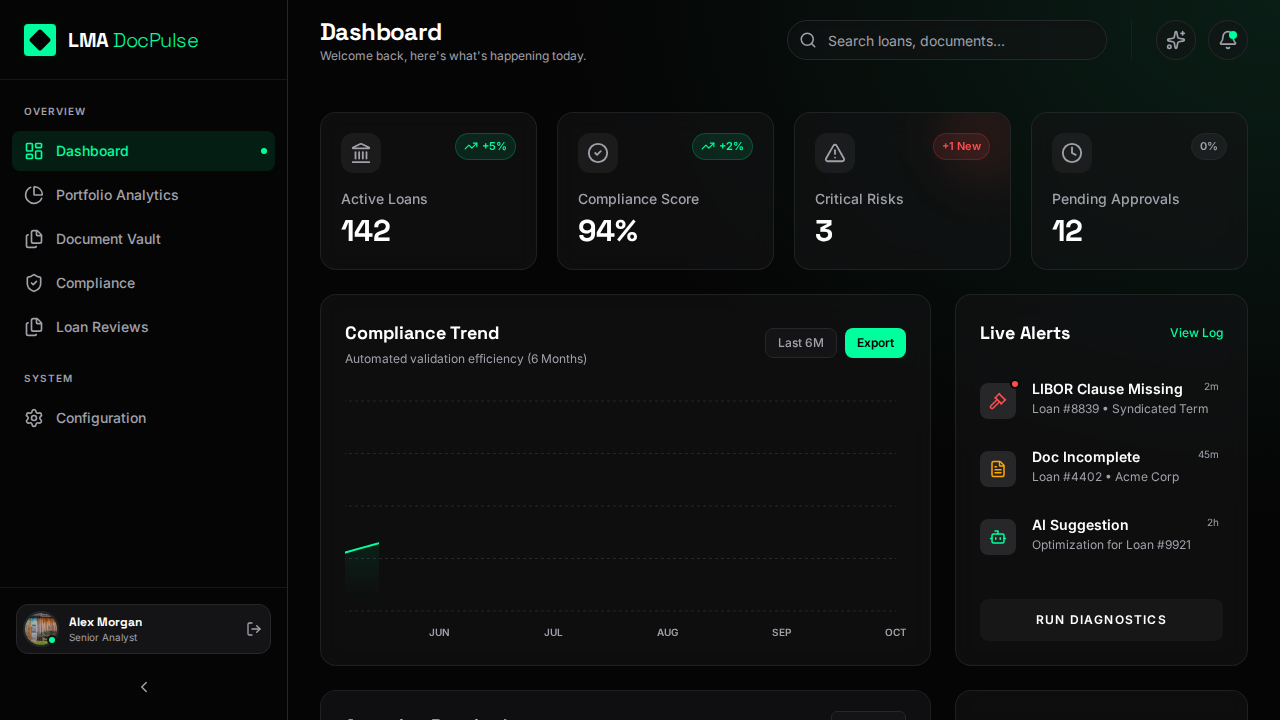
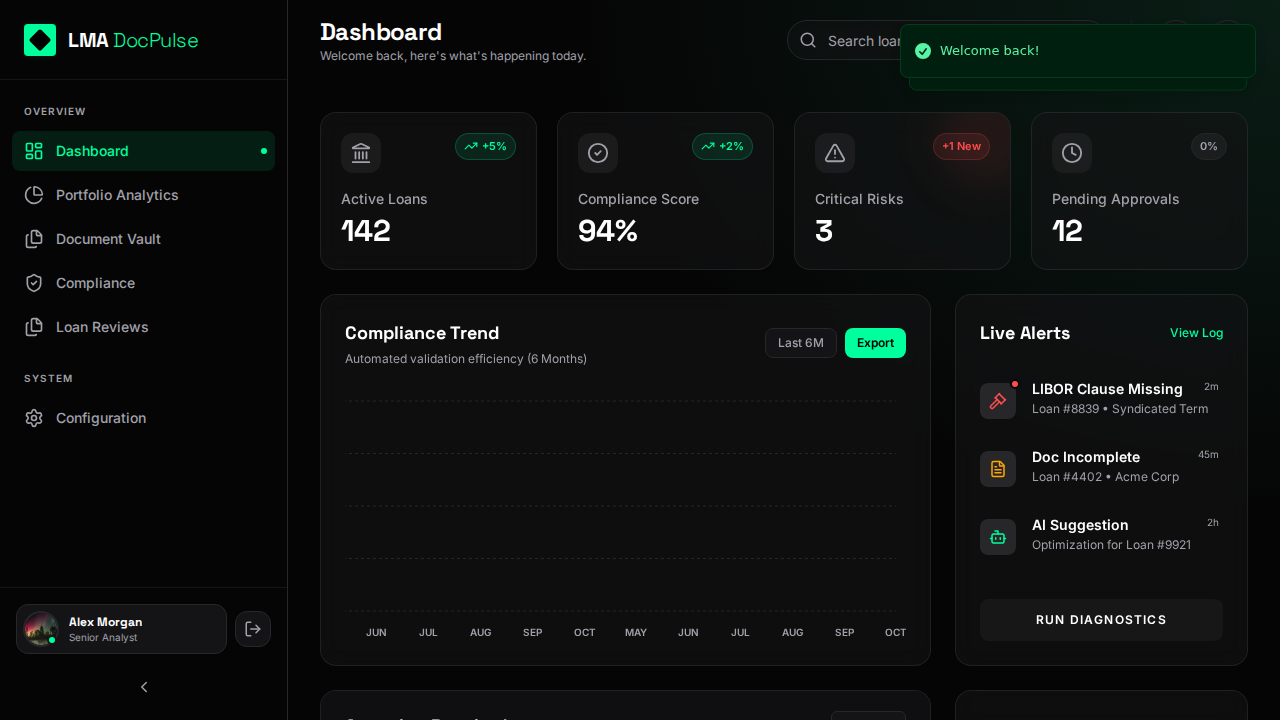
Implement Dexie.js for auth and data persistence
- Installed dexie and dexie-react-hooks
- Created src/db.ts for database schema and initialization
- Replaced mock data usage with Dexie database in App.tsx and DashboardView.tsx
- Implemented basic authentication (signup/login) in AuthView.tsx using Dexie
- Updated Doc type to include optional id
- Initialized database with mock data on first run
- Fixed type error in ActionFeedback.tsx

diff --git a/src/views/AuthView.tsx b/src/views/AuthView.tsx
@@ -14,6 +14,7 @@ import {
 } from 'lucide-react';
 import { ViewState } from '../types';
 import { toast } from 'sonner';
+import { db } from '../db';
 
 interface AuthViewProps {
     setView: (view: ViewState) => void;
@@ -29,6 +30,7 @@ export const AuthView = ({ setView }: AuthViewProps) => {
     // Form states
     const [email, setEmail] = useState('');
     const [password, setPassword] = useState('');
+    const [name, setName] = useState(''); // Added name state for signup
 
     // Animation refs
     const leftPanelRef = useRef(null);
@@ -59,19 +61,46 @@ export const AuthView = ({ setView }: AuthViewProps) => {
         e.preventDefault();
         setIsLoading(true);
 
-        // Simulate API call
-        setTimeout(() => {
-            setIsLoading(false);
-            toast.success(mode === 'login' ? "Welcome back!" : "Account created successfully!");
+        try {
+            if (mode === 'signup') {
+                const existingUser = await db.users.where('email').equals(email).first();
+                if (existingUser) {
+                    toast.error("User with this email already exists.");
+                    setIsLoading(false);
+                    return;
+                }
+                await db.users.add({
+                    email,
+                    password,
+                    name: name || email.split('@')[0]
+                });
+                toast.success("Account created successfully! Please log in.");
+                setMode('login'); // Switch to login after signup
+                setIsLoading(false);
+            } else {
+                const user = await db.users.where('email').equals(email).first();
+                if (user && user.password === password) {
+                    toast.success("Welcome back!");
+                    // Store user session (simple version)
+                    localStorage.setItem('currentUser', JSON.stringify(user));
 
-            // Exit animation
-            gsap.to(containerRef.current, {
-                opacity: 0,
-                y: -20,
-                duration: 0.5,
-                onComplete: () => setView('dashboard')
-            });
-        }, 1500);
+                    // Exit animation
+                    gsap.to(containerRef.current, {
+                        opacity: 0,
+                        y: -20,
+                        duration: 0.5,
+                        onComplete: () => setView('dashboard')
+                    });
+                } else {
+                    toast.error("Invalid email or password.");
+                    setIsLoading(false);
+                }
+            }
+        } catch (error) {
+            console.error("Auth error:", error);
+            toast.error("An error occurred during authentication.");
+            setIsLoading(false);
+        }
     };
 
     const toggleMode = () => {
@@ -180,6 +209,26 @@ export const AuthView = ({ setView }: AuthViewProps) => {
 
                     <form ref={formRef} onSubmit={handleSubmit} className="space-y-4">
                         <div className="space-y-4">
+                            {mode === 'signup' && (
+                                <div className="form-element space-y-1.5">
+                                    <label className="text-xs font-bold uppercase tracking-wider text-text-muted">Full Name</label>
+                                    <div className="relative group">
+                                        <div className="absolute inset-y-0 left-0 pl-3 flex items-center pointer-events-none">
+                                            <div className="w-[18px] flex justify-center">
+                                                 <span className="text-slate-500 group-focus-within:text-primary transition-colors font-bold">Aa</span>
+                                            </div>
+                                        </div>
+                                        <input
+                                            type="text"
+                                            value={name}
+                                            onChange={(e) => setName(e.target.value)}
+                                            className="w-full bg-surface border border-border rounded-lg pl-10 pr-4 py-3 text-white placeholder-slate-600 focus:outline-none focus:ring-1 focus:ring-primary focus:border-primary transition-all text-sm"
+                                            placeholder="John Doe"
+                                        />
+                                    </div>
+                                </div>
+                            )}
+
                             <div className="form-element space-y-1.5">
                                 <label className="text-xs font-bold uppercase tracking-wider text-text-muted">Email</label>
                                 <div className="relative group">

diff --git a/src/views/DashboardView.tsx b/src/views/DashboardView.tsx
@@ -23,7 +23,8 @@ import { StatCard } from '../components/StatCard';
 import { AlertItem } from '../components/AlertItem';
 import { RiskHeatmap } from '../components/RiskHeatmap';
 import { useActionFeedback } from '../components/ActionFeedback';
-import { CHART_DATA, LOANS_DATA } from '../data/mockData';
+import { db } from '../db';
+import { useLiveQuery } from 'dexie-react-hooks';
 
 import { ViewState } from '../types';
 
@@ -34,6 +35,9 @@ interface DashboardViewProps {
 export const DashboardView = ({ setView }: DashboardViewProps) => {
     const { trigger: triggerExport } = useActionFeedback('Export Data');
     const { trigger: triggerDiagnostics } = useActionFeedback('System Diagnostics');
+
+    const chartData = useLiveQuery(() => db.chartData.toArray()) || [];
+    const loansData = useLiveQuery(() => db.loans.toArray()) || [];
 
     return (
     <div className="flex-1 overflow-y-auto p-4 lg:p-8 pt-2 custom-scrollbar">
@@ -100,7 +104,7 @@ export const DashboardView = ({ setView }: DashboardViewProps) => {
 
                     <div className="flex-1 min-h-[250px] w-full mt-4">
                         <ResponsiveContainer width="100%" height="100%">
-                            <AreaChart data={CHART_DATA} margin={{ top: 10, right: 10, left: -20, bottom: 0 }}>
+                            <AreaChart data={chartData} margin={{ top: 10, right: 10, left: -20, bottom: 0 }}>
                                 <defs>
                                     <linearGradient id="colorScore" x1="0" y1="0" x2="0" y2="1">
                                         <stop offset="5%" stopColor="#00ff9d" stopOpacity={0.2} />
@@ -213,7 +217,7 @@ export const DashboardView = ({ setView }: DashboardViewProps) => {
                                 </tr>
                             </thead>
                             <tbody className="divide-y divide-border text-white">
-                                {LOANS_DATA.map((loan) => (
+                                {loansData.map((loan) => (
                                     <tr
                                         key={loan.id}
                                         className="hover:bg-surface-highlight/40 transition-colors group cursor-pointer"

diff --git a/App.tsx b/App.tsx
@@ -28,10 +28,16 @@ import { AuthView } from './src/views/AuthView';
 
 
 import { ViewState, Doc } from './src/types';
-import { INITIAL_VAULT_DOCS } from './src/data/mockData';
+import { initDB, db } from './src/db';
+import { useLiveQuery } from 'dexie-react-hooks';
 
 export default function App() {
   const [sidebarOpen, setSidebarOpen] = useState(false);
+
+  // Initialize DB
+  useEffect(() => {
+    initDB();
+  }, []);
 
   // Initial state check from hash, default to dashboard
   const getInitialView = (): ViewState => {
@@ -52,7 +58,12 @@ export default function App() {
   };
 
   const [currentView, setCurrentView] = useState<ViewState>(getInitialView);
-  const [vaultDocs, setVaultDocs] = useState<Doc[]>(INITIAL_VAULT_DOCS);
+
+  // Replace useState with useLiveQuery for vaultDocs
+  const vaultDocs = useLiveQuery(
+    () => db.docs.toArray(),
+    []
+  );
 
   // Sync state to hash
   useEffect(() => {
@@ -82,8 +93,9 @@ export default function App() {
   }, [currentView]);
 
 
-  const handleUploadComplete = (newDocs: Doc[]) => {
-    setVaultDocs(prev => [...newDocs, ...prev]);
+  const handleUploadComplete = async (newDocs: Doc[]) => {
+    // Add new docs to Dexie instead of state
+    await db.docs.bulkAdd(newDocs);
     setCurrentView('vault');
   };
 
@@ -127,7 +139,7 @@ export default function App() {
         />
 
         {currentView === 'dashboard' && <DashboardView setView={setCurrentView} />}
-        {currentView === 'vault' && <DocumentVaultView setView={setCurrentView} docs={vaultDocs} />}
+        {currentView === 'vault' && <DocumentVaultView setView={setCurrentView} docs={vaultDocs || []} />}
         {currentView === 'upload' && <UploadView setView={setCurrentView} onUploadComplete={handleUploadComplete} />}
         {currentView === 'smart_query' && <SmartQueryView setView={setCurrentView} />}
         {currentView === 'analytics' && <PortfolioAnalyticsView />}

diff --git a/src/db.ts b/src/db.ts
@@ -1,0 +1,67 @@
+import Dexie, { Table } from 'dexie';
+import { Doc } from './types';
+import { INITIAL_VAULT_DOCS } from './data/mockData';
+
+export interface User {
+  id?: number;
+  email: string;
+  password: string; // Storing plain text password for now as per simple auth requirement, ideally should be hashed
+  name: string;
+}
+
+export interface ChartData {
+    id?: number;
+    month: string;
+    score: number;
+}
+
+export interface Loan {
+    id: string;
+    counterparty: string;
+    initial: string;
+    initialColor: string;
+    risk: string;
+    riskColor: string;
+    deadline: string;
+}
+
+export class AppDatabase extends Dexie {
+  users!: Table<User>;
+  docs!: Table<Doc, number>; // Primary key is number (auto-incremented) but we'll see if Doc has an ID
+  chartData!: Table<ChartData, number>;
+  loans!: Table<Loan, string>; // Primary key is ID string
+
+  constructor() {
+    super('LMA_DocPulse_DB');
+    this.version(1).stores({
+      users: '++id, email',
+      docs: '++id, name, type, status, date',
+      chartData: '++id, month',
+      loans: 'id, counterparty, risk'
+    });
+  }
+}
+
+export const db = new AppDatabase();
+
+// Initialize DB with mock data if empty
+export const initDB = async () => {
+    const docsCount = await db.docs.count();
+    if (docsCount === 0) {
+        await db.docs.bulkAdd(INITIAL_VAULT_DOCS);
+    }
+
+    // We can also initialize other data if needed, but the prompt mainly focused on mockData replacement.
+    // Let's bring in CHART_DATA and LOANS_DATA too
+    const { CHART_DATA, LOANS_DATA } = await import('./data/mockData');
+
+    const chartCount = await db.chartData.count();
+    if (chartCount === 0) {
+        await db.chartData.bulkAdd(CHART_DATA);
+    }
+
+    const loansCount = await db.loans.count();
+    if (loansCount === 0) {
+        await db.loans.bulkAdd(LOANS_DATA);
+    }
+};

diff --git a/src/components/ActionFeedback.tsx b/src/components/ActionFeedback.tsx
@@ -20,7 +20,7 @@ interface ActionFeedbackProps {
 export const useActionFeedback = (actionName: string, options?: { successMessage?: string, errorMessage?: string, duration?: number }) => {
     const [state, setState] = useState<ActionState>('idle');
 
-    const trigger = async (promiseOrFn: () => Promise<void> | void) => {
+    const trigger = async (promiseOrFn?: () => Promise<void> | void) => {
         setState('processing');
         const toastId = toast.loading(`${actionName}...`, {
              description: 'Please wait while we process your request.',

diff --git a/src/types/index.ts b/src/types/index.ts
@@ -2,6 +2,7 @@ import React from 'react';
 export type ViewState = 'landing' | 'auth' | 'dashboard' | 'vault' | 'upload' | 'smart_query' | 'analytics' | 'compliance' | 'notifications' | 'settings' | 'loan_review' | 'profile' | 'loan_reviews' | 'filter' | 'document_detail' | 'edit_profile' | 'alerts_log' | 'activity_log' | 'violations_log' | 'public_profile' | 'analytics_result';
 
 export interface Doc {
+    id?: number;
     name: string;
     type: 'PDF' | 'DOCX' | 'XLSX' | 'File';
     size: string;

diff --git a/verification/verify_auth_dexie.py b/verification/verify_auth_dexie.py
@@ -1,0 +1,87 @@
+import time
+from playwright.sync_api import sync_playwright
+
+def test_auth_and_dashboard():
+    with sync_playwright() as p:
+        browser = p.chromium.launch(headless=True)
+        context = browser.new_context()
+        page = context.new_page()
+
+        # Wait for the server to be ready
+        print("Waiting for server to be ready...")
+        time.sleep(2)
+
+        try:
+            # 1. Navigate to the app (defaults to landing page)
+            print("Navigating to app...")
+            page.goto("http://localhost:3000")
+            page.wait_for_load_state("networkidle")
+
+            # Take screenshot of Landing page
+            page.screenshot(path="verification/landing_page.png")
+            print("Landing page screenshot taken.")
+
+            # Click "Sign In" to go to Auth view
+            print("Clicking Sign In...")
+            page.get_by_text("Sign In", exact=True).click()
+            time.sleep(1)
+
+            # Take screenshot of Auth page
+            page.screenshot(path="verification/auth_page.png")
+            print("Auth page screenshot taken.")
+
+            # 2. Signup
+            print("Switching to signup...")
+            # Click "Sign up" button.
+            page.get_by_text("Sign up", exact=True).click()
+            time.sleep(1)
+
+            print("Filling signup form...")
+            # Fill name, email, password
+            page.get_by_placeholder("John Doe").fill("Test User")
+            page.get_by_placeholder("name@company.com").fill("test@example.com")
+            page.get_by_placeholder("••••••••").fill("password123")
+
+            # Click "Create Account"
+            page.get_by_role("button", name="Create Account").click()
+
+            # Wait for success toast or mode switch
+            time.sleep(2)
+
+            # Take screenshot after signup (should be back to login or showing success)
+            page.screenshot(path="verification/after_signup.png")
+            print("After signup screenshot taken.")
+
+            # 3. Login
+            print("Logging in...")
+            # Should be in login mode now
+            page.get_by_placeholder("name@company.com").fill("test@example.com")
+            page.get_by_placeholder("••••••••").fill("password123")
+
+            page.get_by_role("button", name="Sign In").click()
+
+            # Wait for navigation to dashboard
+            # App.tsx: onComplete: () => setView('dashboard')
+            # Dashboard has "Compliance Trend" text
+            print("Waiting for dashboard...")
+            page.wait_for_selector("text=Compliance Trend", timeout=10000)
+
+            # Take screenshot of Dashboard
+            page.screenshot(path="verification/dashboard.png")
+            print("Dashboard screenshot taken.")
+
+            # Verify data presence (Dexie loaded)
+            # Check if "Active Loans" or "Compliance Score" is visible
+            if page.get_by_text("Active Loans").is_visible():
+                print("Dashboard loaded successfully with data.")
+            else:
+                print("Dashboard data might be missing.")
+
+        except Exception as e:
+            print(f"Error: {e}")
+            page.screenshot(path="verification/error.png")
+        finally:
+            browser.close()
+
+if __name__ == "__main__":
+    test_auth_and_dashboard()
